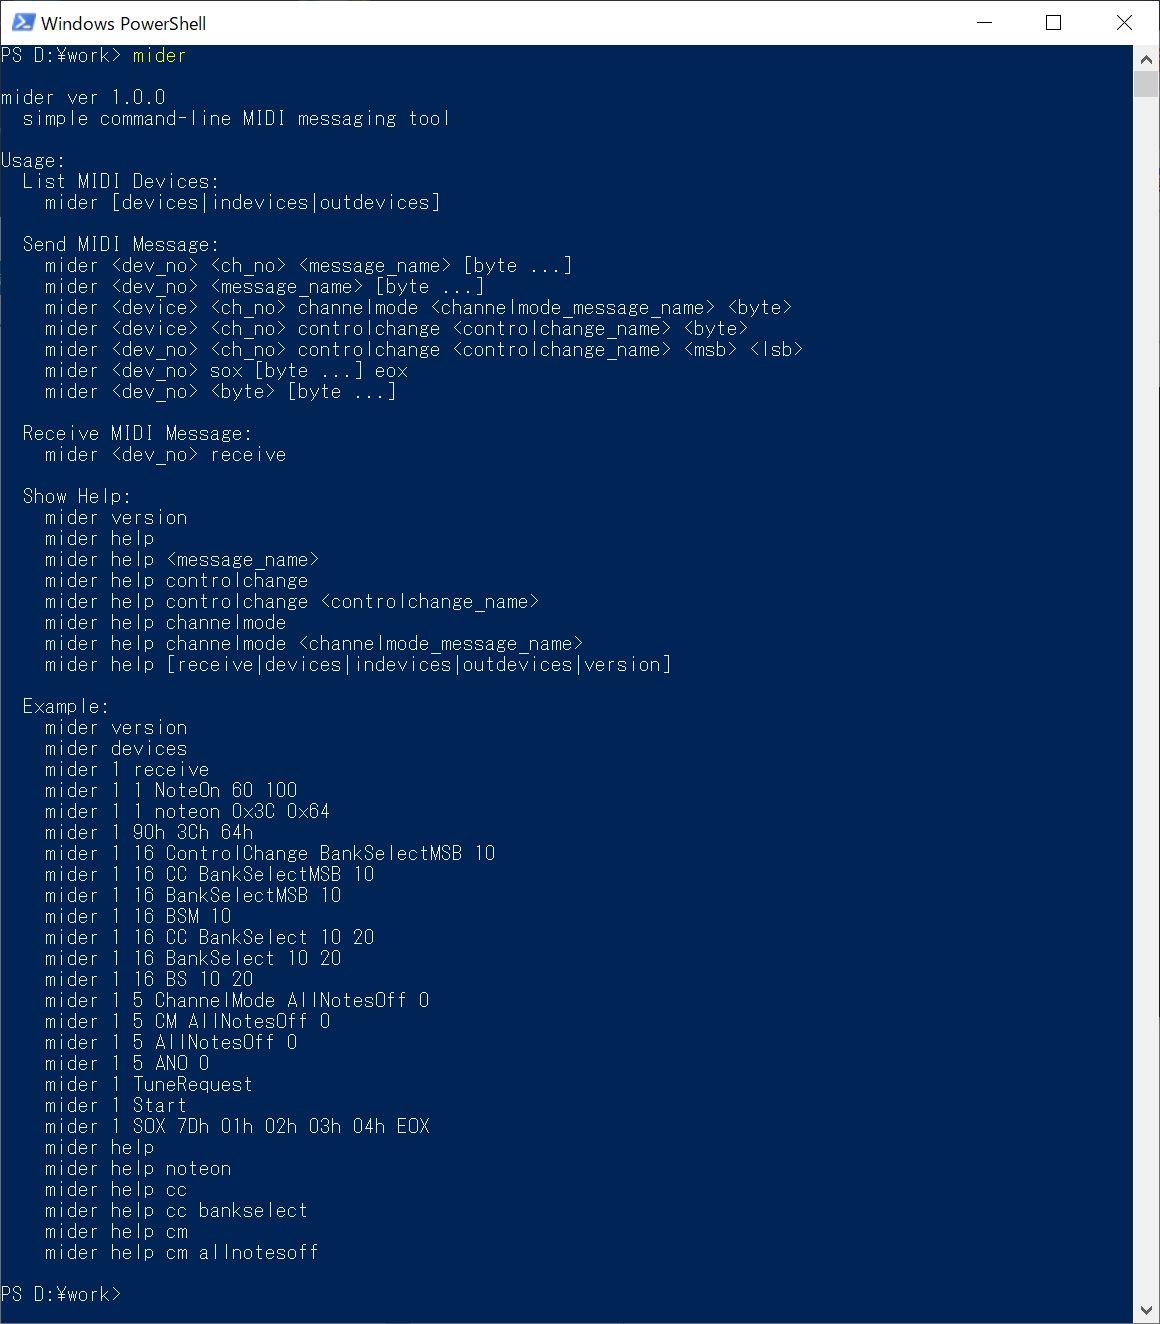
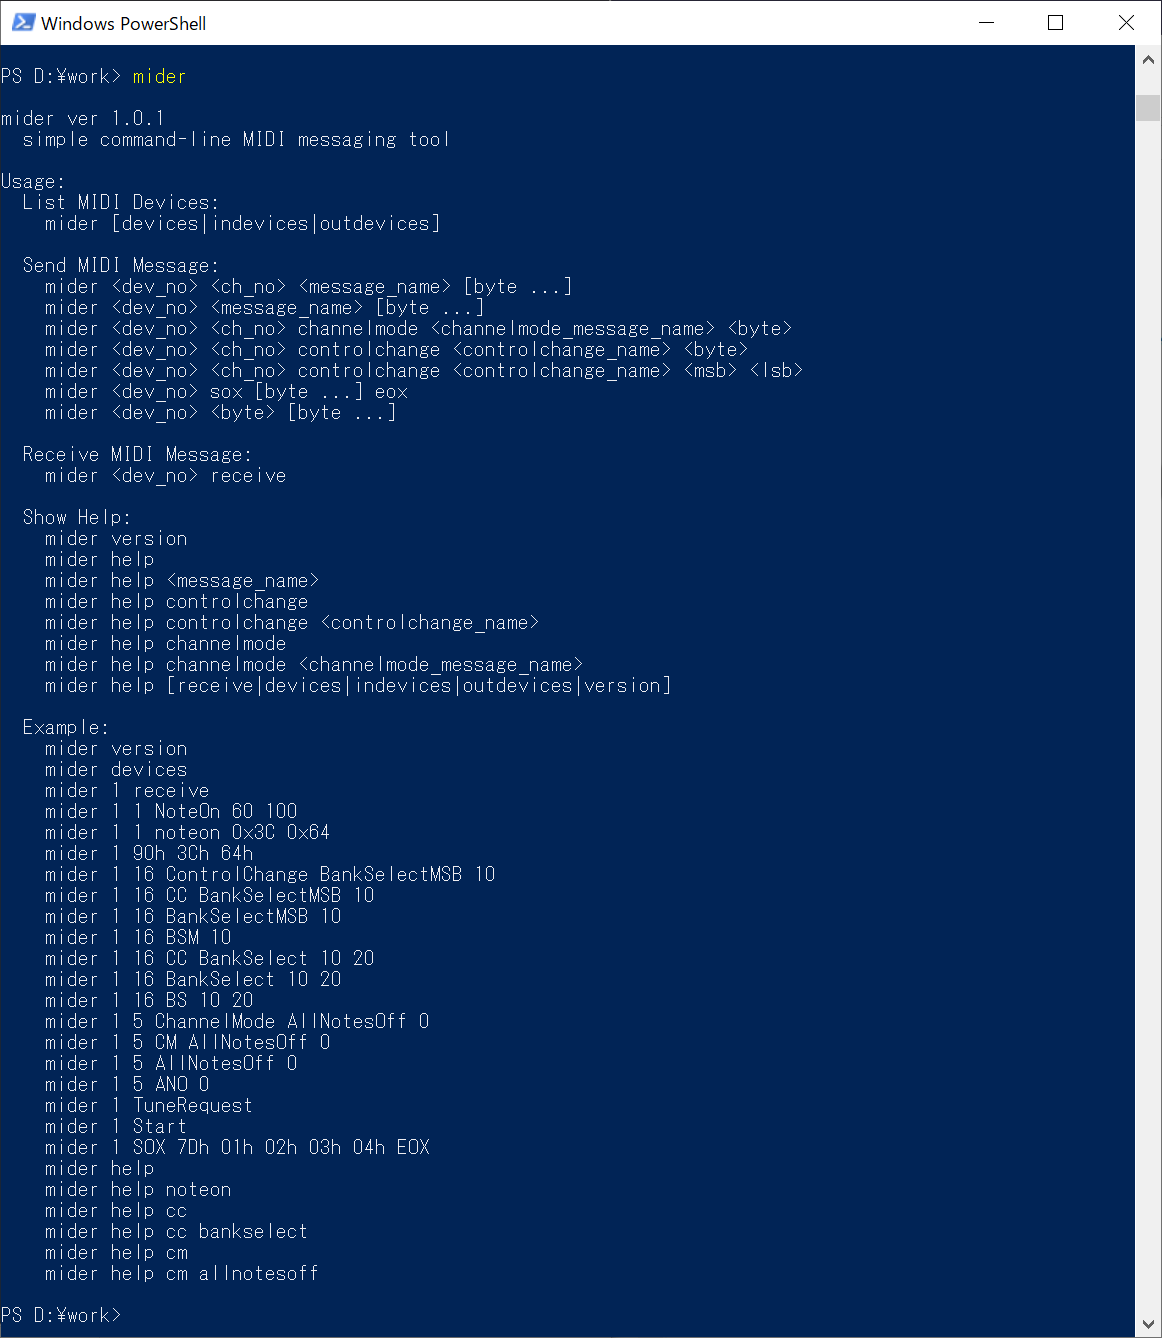
fix typo

diff --git a/Source/Main.cpp b/Source/Main.cpp
@@ -3,7 +3,7 @@
 //   Author: aike
 //   License: MIT
 
-constexpr auto VERSION = "1.0.0";
+constexpr auto VERSION = "1.0.1";
 
 #include <JuceHeader.h>
 #include <regex>
@@ -241,8 +241,8 @@ void usage(void)
     std::cout << "  Send MIDI Message:" << std::endl;
     std::cout << "    mider <dev_no> <ch_no> <message_name> [byte ...]" << std::endl;
     std::cout << "    mider <dev_no> <message_name> [byte ...]" << std::endl;
-    std::cout << "    mider <device> <ch_no> channelmode <channelmode_message_name> <byte>" << std::endl;
-    std::cout << "    mider <device> <ch_no> controlchange <controlchange_name> <byte>" << std::endl;
+    std::cout << "    mider <dev_no> <ch_no> channelmode <channelmode_message_name> <byte>" << std::endl;
+    std::cout << "    mider <dev_no> <ch_no> controlchange <controlchange_name> <byte>" << std::endl;
     std::cout << "    mider <dev_no> <ch_no> controlchange <controlchange_name> <msb> <lsb>" << std::endl;
     std::cout << "    mider <dev_no> sox [byte ...] eox" << std::endl;
     std::cout << "    mider <dev_no> <byte> [byte ...]" << std::endl;

diff --git a/README.md b/README.md
@@ -30,8 +30,8 @@ https://github.com/aike/mider/releases
 ```
   mider <dev_no> <ch_no> <message_name> [byte ...]
   mider <dev_no> <message_name> [byte ...]
-  mider <device> <ch_no> channelmode <channelmode_message_name> <byte>
-  mider <device> <ch_no> controlchange <controlchange_name> <byte>
+  mider <dev_no> <ch_no> channelmode <channelmode_message_name> <byte>
+  mider <dev_no> <ch_no> controlchange <controlchange_name> <byte>
   mider <dev_no> sox [byte ...] eox
   mider <dev_no> <byte> [byte ...]
 ```

diff --git a/READMEja.md b/READMEja.md
@@ -30,8 +30,8 @@ https://github.com/aike/mider/releases
 ```
   mider <dev_no> <ch_no> <message_name> [byte ...]
   mider <dev_no> <message_name> [byte ...]
-  mider <device> <ch_no> channelmode <channelmode_message_name> <byte>
-  mider <device> <ch_no> controlchange <controlchange_name> <byte>
+  mider <dev_no> <ch_no> channelmode <channelmode_message_name> <byte>
+  mider <dev_no> <ch_no> controlchange <controlchange_name> <byte>
   mider <dev_no> sox [byte ...] eox
   mider <dev_no> <byte> [byte ...]
 ```
